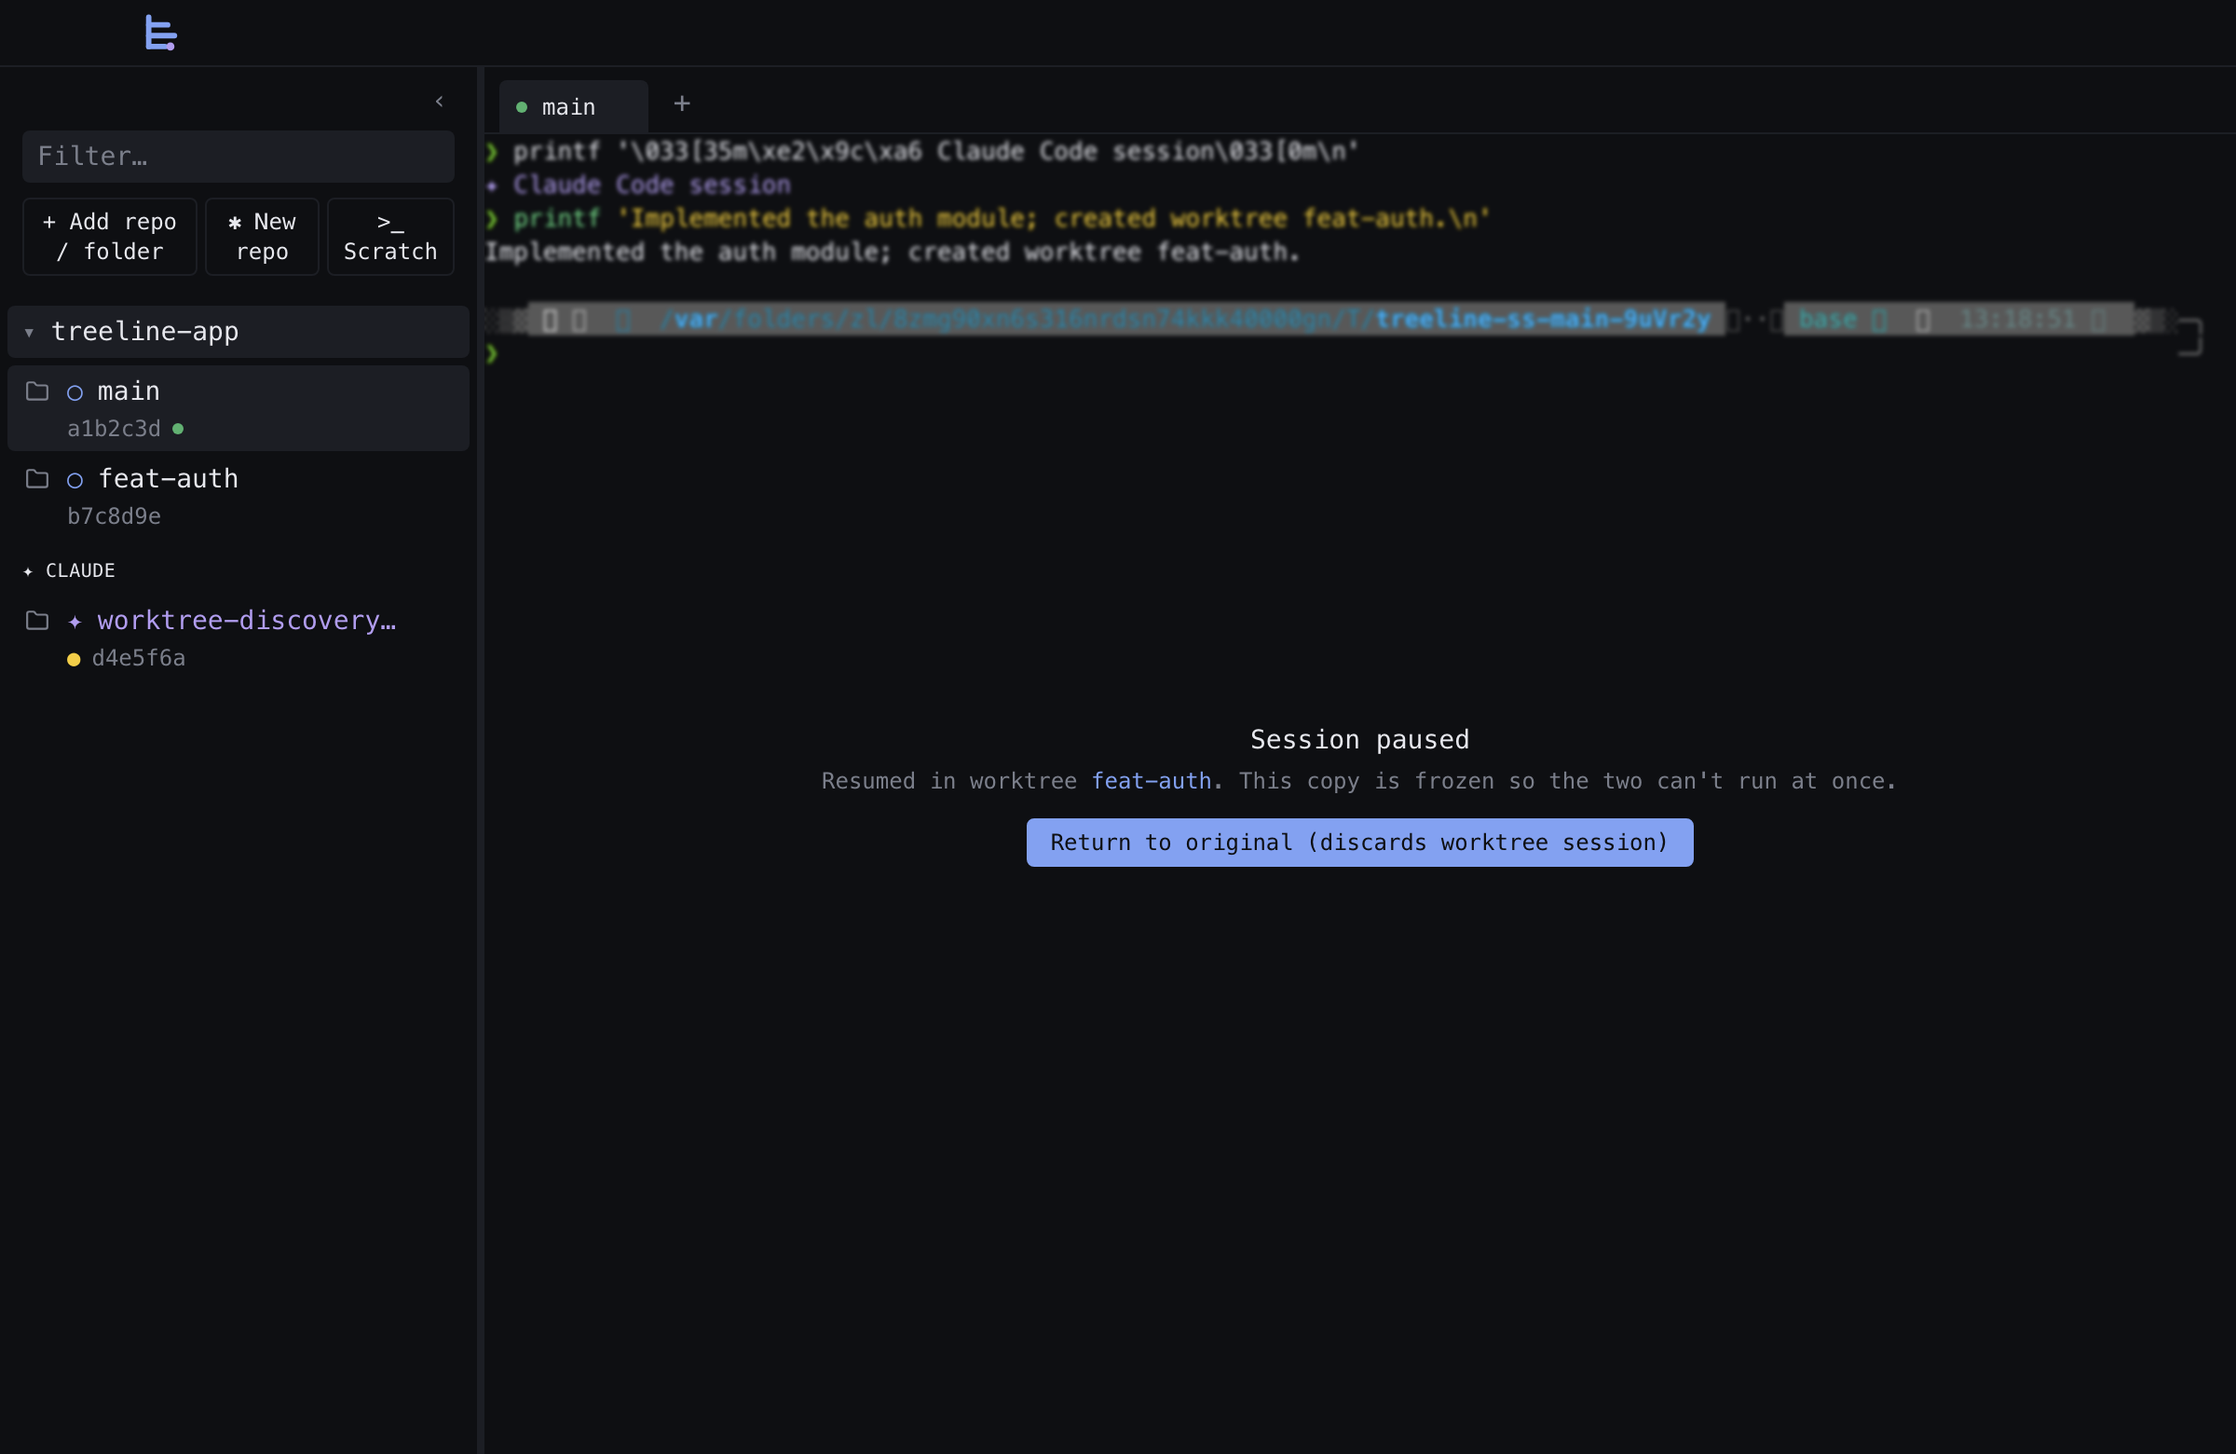
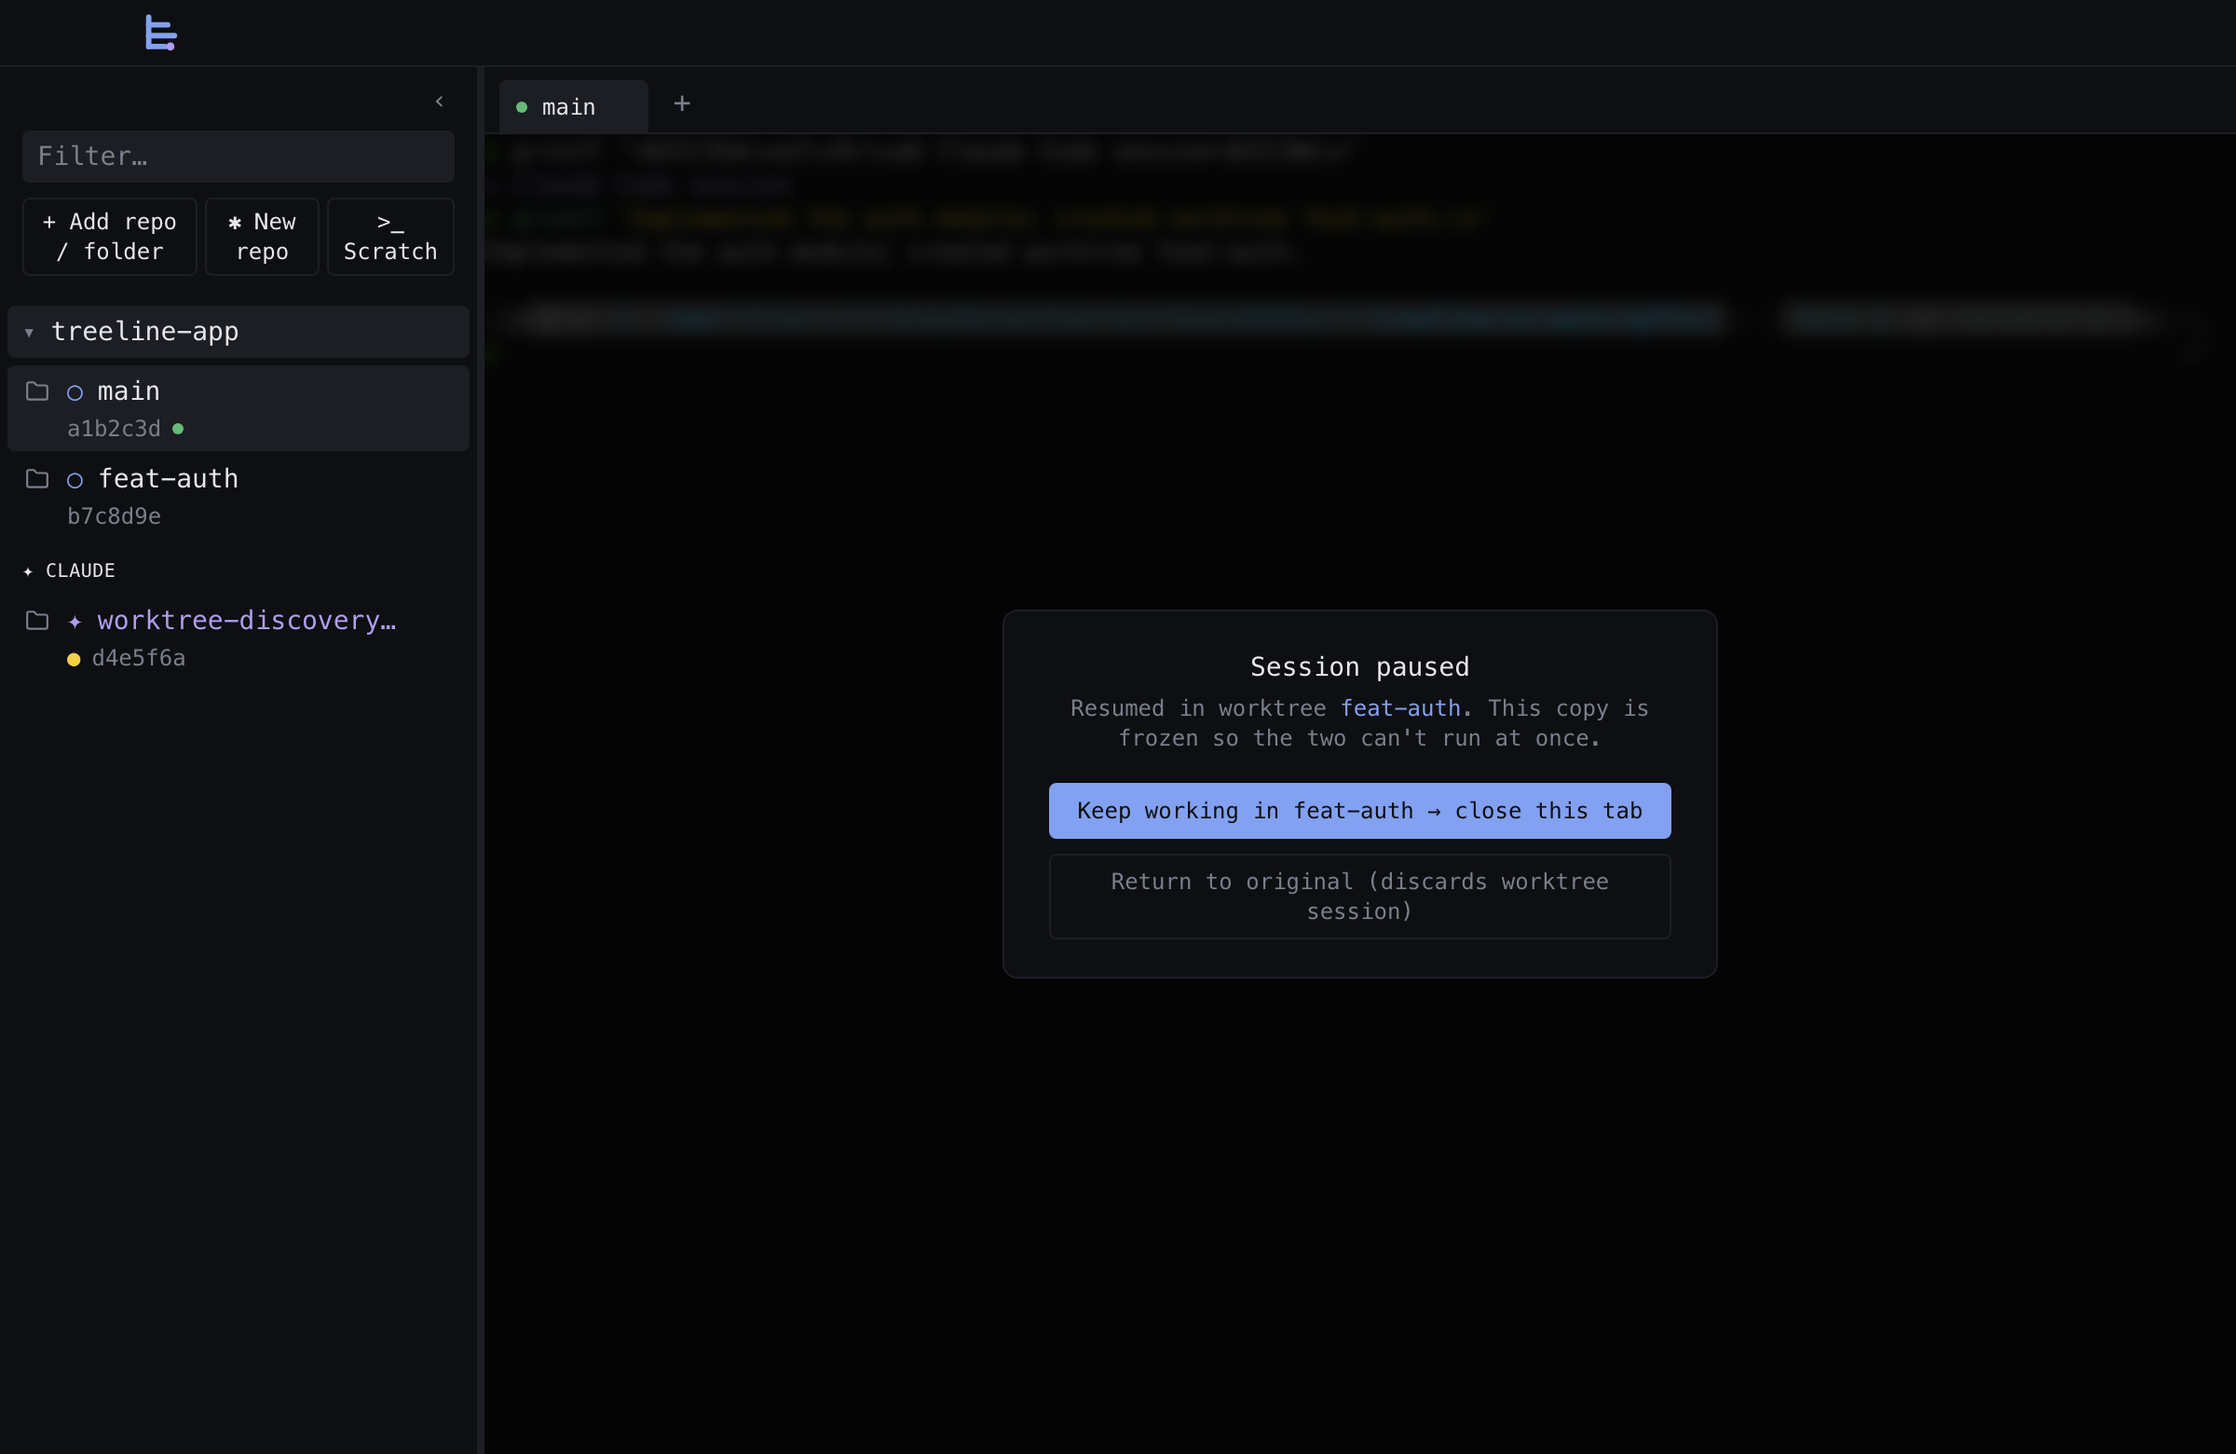
feat: clearer worktree handoff affordances and parked overlay
The session-handoff UX had three rough edges. Address them together:

- Parked overlay: add a primary "Keep working in <wt> → close this
  tab" action (closes the dead origin, keeps the worktree fork) so the
  common intent isn't a hidden tab-close. "Return to original" stays as
  the secondary path. Redesign the modal — solid card over a dark scrim
  + blur — so it's legible over the busy terminal beneath.
- Handoff toast: rename "Resume Claude here" → "Continue Claude in new
  tab"; the old wording implied resuming in place. Heading is now
  reason-aware ("Continue Claude in <wt>?" vs "Open a terminal in <wt>?").
- Drop the redundant "Open" button from the worktree-created toast
  (Continue is the offer there); keep it for the drift case, where a
  plain shell is the only useful action.

Claude-Session: https://claude.ai/code/session_01BeQraEcRrqwv2yuwFSQsct

docs: document worktree handoff with refreshed modal screenshots

Update the handoff docs to match the reworked UI and recapture the two
modal screenshots from the screenshot harness.

- README "Worktree handoff prompt": the created toast now leads with
  "Continue Claude in new tab" (was "Resume Claude here" + redundant
  "Open"); "Open" is documented as the drift-only action. The parked
  overlay now documents both ways forward — the new primary "Keep
  working in <wt> → close this tab" and the secondary "Return to
  original" — plus the legibility fix (solid card over a blurred scrim).
[…]

diff --git a/src/renderer/components/PaneView.tsx b/src/renderer/components/PaneView.tsx
@@ -2,7 +2,7 @@ import { useEffect, useRef, useState } from 'react';
 import type { PaneLeaf } from '@shared/pane-tree';
 import { useXterm } from '../hooks/useXterm';
 import { useStore } from '../store';
-import { returnToOriginal } from '../actions/tabs';
+import { returnToOriginal, closeTab } from '../actions/tabs';
 import { TabStatusDot } from './TabStatusDot';
 import { basename } from '../util/path';
 
@@ -51,32 +51,49 @@ export function PaneView({ leaf, tabId, active, showChrome }: Props) {
     >
       <div ref={containerRef} className="absolute inset-0" />
       {/* Parked overlay — this session was frozen (SIGSTOP) because its
-        * conversation was resumed in a worktree. Dims the terminal and offers a
-        * way back, which thaws this pane and discards the worktree fork. */}
+        * conversation was resumed in a worktree. A heavy scrim hides the busy
+        * terminal beneath, and a solid card carries the two ways forward:
+        * keep the worktree (close this dead origin tab) or return here
+        * (thaw this pane and discard the worktree fork). */}
       {handoff && (
-        <div className="absolute inset-0 z-30 flex flex-col items-center justify-center gap-3 bg-treeline-surface/85 backdrop-blur-[1px]">
-          <div className="max-w-[80%] text-center text-xs text-treeline-dim">
-            <div className="mb-1 text-sm text-treeline-text">Session paused</div>
-            Resumed in worktree{' '}
-            <span className="text-treeline-cyan">{basename(handoff.worktreeCwd)}</span>. This
-            copy is frozen so the two can&apos;t run at once.
+        <div className="absolute inset-0 z-30 flex flex-col items-center justify-center bg-black/70 backdrop-blur-sm">
+          <div className="mx-4 flex max-w-sm flex-col items-center gap-4 rounded-lg border border-treeline-highlight bg-treeline-surface px-6 py-5 text-center shadow-2xl">
+            <div className="text-xs text-treeline-dim">
+              <div className="mb-1 text-sm font-medium text-treeline-text">Session paused</div>
+              Resumed in worktree{' '}
+              <span className="text-treeline-cyan">{basename(handoff.worktreeCwd)}</span>. This
+              copy is frozen so the two can&apos;t run at once.
+            </div>
+            <div className="flex w-full flex-col gap-2">
+              <button
+                type="button"
+                disabled={returning}
+                onClick={(e) => {
+                  e.stopPropagation();
+                  void closeTab(tabId);
+                }}
+                className="rounded border border-treeline-cyan bg-treeline-cyan px-3 py-1.5 text-xs font-medium text-treeline-surface hover:opacity-90 disabled:opacity-50"
+              >
+                Keep working in {basename(handoff.worktreeCwd)} → close this tab
+              </button>
+              <button
+                type="button"
+                disabled={returning}
+                onClick={async (e) => {
+                  e.stopPropagation();
+                  setReturning(true);
+                  try {
+                    await returnToOriginal(leaf.ptyId);
+                  } finally {
+                    setReturning(false);
+                  }
+                }}
+                className="rounded border border-treeline-highlight px-3 py-1.5 text-xs text-treeline-dim hover:text-treeline-text disabled:opacity-50"
+              >
+                {returning ? 'Returning…' : 'Return to original (discards worktree session)'}
+              </button>
+            </div>
           </div>
-          <button
-            type="button"
-            disabled={returning}
-            onClick={async (e) => {
-              e.stopPropagation();
-              setReturning(true);
-              try {
-                await returnToOriginal(leaf.ptyId);
-              } finally {
-                setReturning(false);
-              }
-            }}
-            className="rounded border border-treeline-cyan bg-treeline-cyan px-3 py-1 text-xs text-treeline-surface hover:opacity-90 disabled:opacity-50"
-          >
-            {returning ? 'Returning…' : 'Return to original (discards worktree session)'}
-          </button>
         </div>
       )}
       {/* Attention ring — agent on this pane is waiting on the human. Drawn

diff --git a/src/renderer/components/WorktreeDriftToast.tsx b/src/renderer/components/WorktreeDriftToast.tsx
@@ -58,30 +58,39 @@ export function WorktreeDriftToast() {
       className="fixed bottom-24 right-4 z-40 w-80 rounded border border-treeline-highlight bg-treeline-surface p-3 text-treeline-text shadow-2xl"
     >
       <div className="mb-1 flex items-baseline justify-between gap-2">
-        <h3 className="text-sm text-treeline-cyan">Open a terminal in {basename}?</h3>
+        <h3 className="text-sm text-treeline-cyan">
+          {head.reason === 'created'
+            ? `Continue Claude in ${basename}?`
+            : `Open a terminal in ${basename}?`}
+        </h3>
         {queueLen > 1 && (
           <span className="text-xs text-treeline-dim">+{queueLen - 1} more</span>
         )}
       </div>
       <p className="mb-3 break-all text-xs text-treeline-dim">{body}</p>
       <div className="flex flex-wrap items-center gap-2">
-        <button
-          type="button"
-          onClick={onOpen}
-          disabled={busy}
-          className="rounded border border-treeline-highlight bg-treeline-highlight px-2 py-1 text-xs text-treeline-text hover:opacity-90 disabled:opacity-50"
-        >
-          {busy ? 'Opening…' : 'Open'}
-        </button>
+        {/* A plain terminal here is only the useful action for drift (a cwd that
+          * moved into a worktree). For a freshly-created worktree, "Continue
+          * Claude" below is the offer — a blank shell isn't what's wanted. */}
+        {head.reason !== 'created' && (
+          <button
+            type="button"
+            onClick={onOpen}
+            disabled={busy}
+            className="rounded border border-treeline-highlight bg-treeline-highlight px-2 py-1 text-xs text-treeline-text hover:opacity-90 disabled:opacity-50"
+          >
+            {busy ? 'Opening…' : 'Open'}
+          </button>
+        )}
         {head.reason === 'created' && (
           <button
             type="button"
             onClick={onResume}
             disabled={busy}
-            title="Copy this repo's active Claude conversation into the worktree and continue it"
+            title="Copy this repo's active Claude conversation into the worktree and continue it in a new tab (the original is paused)"
             className="rounded border border-treeline-cyan bg-treeline-cyan px-2 py-1 text-xs text-treeline-surface hover:opacity-90 disabled:opacity-50"
           >
-            {busy ? 'Resuming…' : 'Resume Claude here'}
+            {busy ? 'Continuing…' : 'Continue Claude in new tab'}
           </button>
         )}
         <button

diff --git a/README.md b/README.md
@@ -549,30 +549,32 @@ disappears so xterm doesn't keep talking to a vanished cwd.
 
 ### Worktree handoff prompt
 
-![Bottom-right toast reading "Open a terminal in feat-auth? A new worktree was created." with Open, Resume Claude here, and Dismiss buttons, beside the sidebar where the feat-auth worktree has just appeared](docs/img/35-worktree-open-toast.png)
+![Bottom-right toast reading "Continue Claude in feat-auth? A new worktree was created." with "Continue Claude in new tab" and Dismiss buttons, beside the sidebar where the feat-auth worktree has just appeared](docs/img/35-worktree-open-toast.png)
 
 When a new worktree appears — typically because an agent ran
 `git worktree add` from inside a hosted terminal — treeline offers to
-open a terminal in it. Without this, the original tab keeps running in
-`main` and the work _looks_ like it's happening there, even though the
-new branch lives elsewhere. **Open** spawns a terminal in the new
-worktree (or focuses the existing one if you already have a tab there);
-**Dismiss** clears the prompt. The trigger is worktree _creation_, so it
-fires for the agent flow where no shell `cd` ever actually happens — the
-`claude` process stays rooted in `main` the whole time.
+**continue the Claude conversation** there, via a **Continue Claude in
+new tab** button. Without this, the original tab keeps running in `main`
+and the work _looks_ like it's happening there, even though the new
+branch lives elsewhere. **Dismiss** clears the prompt. The trigger is
+worktree _creation_, so it fires for the agent flow where no shell `cd`
+ever actually happens — the `claude` process stays rooted in `main` the
+whole time.
 
-The same prompt also appears (with a `↗` chip on the affected tab) when a
+The same detection also fires (with a `↗` chip on the affected tab) when a
 terminal's working directory _drifts_ into a different worktree from the
 one it started in — e.g. you type `cd ../other-worktree` in the shell
-yourself. A worktree you already have a terminal open in is never
-prompted about. First sighting of each worktree at launch is seeded
-silently, so neither startup nor adding a repo nags you — only worktrees
-that appear mid-session do.
+yourself. There's no fresh conversation to hand off in that case, so the
+toast instead offers a plain **Open** — a shell in the drifted-into
+worktree, or focus of the existing tab if you already have one. A worktree
+you already have a terminal open in is never prompted about. First sighting
+of each worktree at launch is seeded silently, so neither startup nor
+adding a repo nags you — only worktrees that appear mid-session do.
 
 ### Resume the Claude session in the worktree
 
-When the prompt fired because a worktree was _created_, it carries a
-third button: **Resume Claude here**. Instead of opening a blank shell, it
+When the prompt fired because a worktree was _created_, its action —
+**Continue Claude in new tab** — does more than open a blank shell: it
 **continues the same Claude conversation** inside the new worktree.
 
 Claude Code stores each conversation's transcript under a folder keyed by
@@ -596,15 +598,27 @@ running would give you _two_ agents working the same task. So on handoff
 treeline freezes the origin pane — `SIGSTOP` on its whole process subtree
 (shell + agent + children), a real stop, not just a focus change — so only
 one copy is ever active. The frozen pane shows a **Session paused** overlay
-naming the worktree it moved to, with a **Return to original (discards
-worktree session)** button that thaws the origin (`SIGCONT`) and closes the
-worktree fork. Closing either tab keeps the pair consistent: close the fork
-and the origin un-freezes; close the origin and the link is simply dropped.
+— a solid card over a dimmed, blurred terminal so it stays legible against
+whatever scrollback sits underneath — naming the worktree the conversation
+moved to and offering the two ways forward:
 
-![The main pane dimmed under a "Session paused" overlay reading "Resumed in worktree feat-auth. This copy is frozen so the two can't run at once," above a "Return to original (discards worktree session)" button, with the frozen Claude session faintly visible behind it](docs/img/37-session-paused.png)
+- **Keep working in `<worktree>` → close this tab** — the usual choice once
+  you've committed to continuing in the worktree. It closes the now-redundant
+  origin tab (reaping the frozen process) and leaves the worktree fork
+  running untouched.
+- **Return to original (discards worktree session)** — the undo. It thaws
+  the origin (`SIGCONT`) and closes the worktree fork, so work resumes where
+  it left off and the fork is thrown away.
 
-This is entirely opt-in — if you never press **Resume Claude here**, nothing
-is copied and nothing is paused; the original session just keeps running.
+Either way the pair stays consistent, and closing the worktree fork tab
+directly also un-freezes the origin — so a parked process can never be
+stranded.
+
+![A "Session paused" overlay on a solid card over a dimmed, blurred terminal, reading "Resumed in worktree feat-auth. This copy is frozen so the two can't run at once," above a primary "Keep working in feat-auth → close this tab" button and a secondary "Return to original (discards worktree session)" button](docs/img/37-session-paused.png)
+
+This is entirely opt-in — if you never press **Continue Claude in new tab**,
+nothing is copied and nothing is paused; the original session just keeps
+running.
 Parking targets the most-recent pane rooted at the parent repo, so run
 `claude` in a hosted treeline terminal (not one outside the app) for the
 pause to find it.

diff --git a/docs/ARCHITECTURE.md b/docs/ARCHITECTURE.md
@@ -591,7 +591,7 @@ src/
     │   ├── ScratchRow.tsx
     │   ├── ScratchTerminalButton.tsx
     │   ├── DiscoveredRepoToast.tsx # "Add this untracked repo?" toast.
-    │   ├── WorktreeDriftToast.tsx  # "Open a terminal in this worktree?" toast; + "Resume Claude here" handoff.
+    │   ├── WorktreeDriftToast.tsx  # worktree toast: "Continue Claude in new tab" (created) / "Open" (drift) handoff.
     │   ├── ScreenshotForceTooltip.tsx # Dev-only screenshot-harness helper.
     │   └── modals/
     │       ├── ModalShell.tsx
